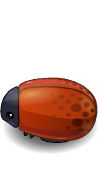
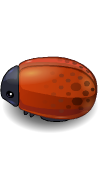
Images are modified to show correct position.

diff --git a/code/game.js b/code/game.js
@@ -55,7 +55,7 @@ Level.prototype.isFinished = function() {
 
 Level.prototype.obstacleAt = function(pos, size) {
     var playerXcenter=pos.x+0.5;
-    
+
     var xStart = Math.floor(pos.x);
     var xEnd = Math.ceil(pos.x + size.x);
     var yStart = Math.floor(pos.y);
@@ -149,11 +149,14 @@ Item.prototype.type = "item";
 function Enemy(pos, ch) {
     this.pos = pos;
     this.size = new Vector(1, 1);
-    this.sprite = 'images/enemy-bug.png';
-    if (ch == "-")
+    if (ch == "-"){
         this.speed = new Vector(1, 0);
-    else if (ch == "=")
+        this.sprite = 'images/enemy-bug-new.png';
+    }
+    else if (ch == "="){
         this.speed = new Vector(-1, 0);
+        this.sprite = 'images/enemy-bug-flip-new.png';
+    }
 
 }
 
@@ -169,7 +172,7 @@ Enemy.prototype.act = function(step, level) {
 
 function Player(pos) {
     this.pos = pos;
-    this.sprite = 'images/char-pink-girl.png';
+    this.sprite = 'images/char-pink-girl-new.png';
     this.size = new Vector(1, 1);
 }
 Player.prototype.type = "player";

diff --git a/code/canvas.js b/code/canvas.js
@@ -100,7 +100,7 @@ CanvasDisplay.prototype.drawActors = function() {
         if (actor.type == "player") {
             this.cx.drawImage(Resources.get(actor.sprite), desX, desY);
         } else if (actor.type == "enemy" && actor.pos.y >= (this.viewport.top - 1.5)) {
-            this.cx.drawImage(Resources.get("images/enemy-bug.png"), desX, desY);
+            this.cx.drawImage(Resources.get(actor.sprite), desX, desY);
         } else if (actor.type == "item" && actor.pos.y >= (this.viewport.top - 1.5)) {
             this.cx.drawImage(Resources.get("images/Key-new.png"), desX, desY);
         }

diff --git a/code/engine.js b/code/engine.js
@@ -54,14 +54,15 @@ var Engine = (function(global) {
         'images/stone-block.png',
         'images/water-block.png',
         'images/grass-block.png',
-        'images/enemy-bug.png',
+        'images/enemy-bug-new.png',
+        'images/enemy-bug-flip-new.png',
         'images/char-pink-girl-withKey.png',
         'images/Gem Blue.png',
         'images/Gem Orange.png',
         'images/Gem Green.png',
         'images/Key-new.png',
         'images/Rock.png',
-        'images/char-pink-girl.png'
+        'images/char-pink-girl-new.png'
     ]);
     Resources.onReady(init);
 
